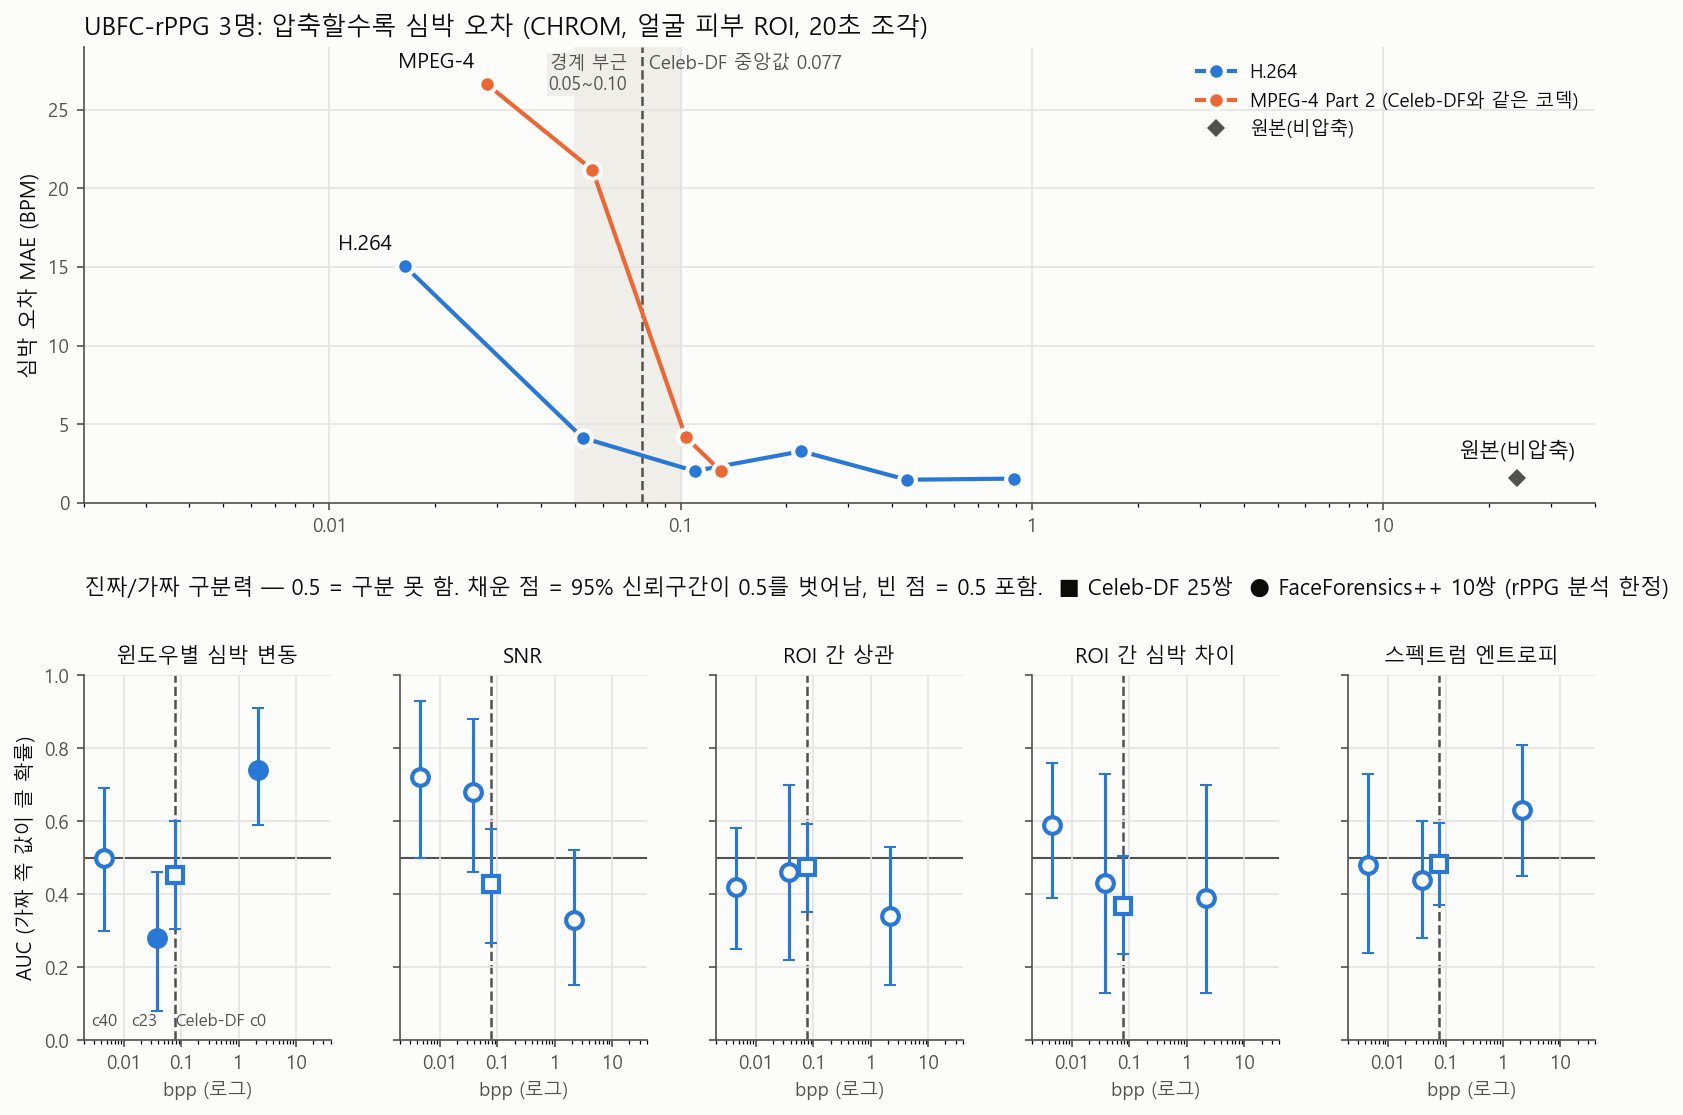
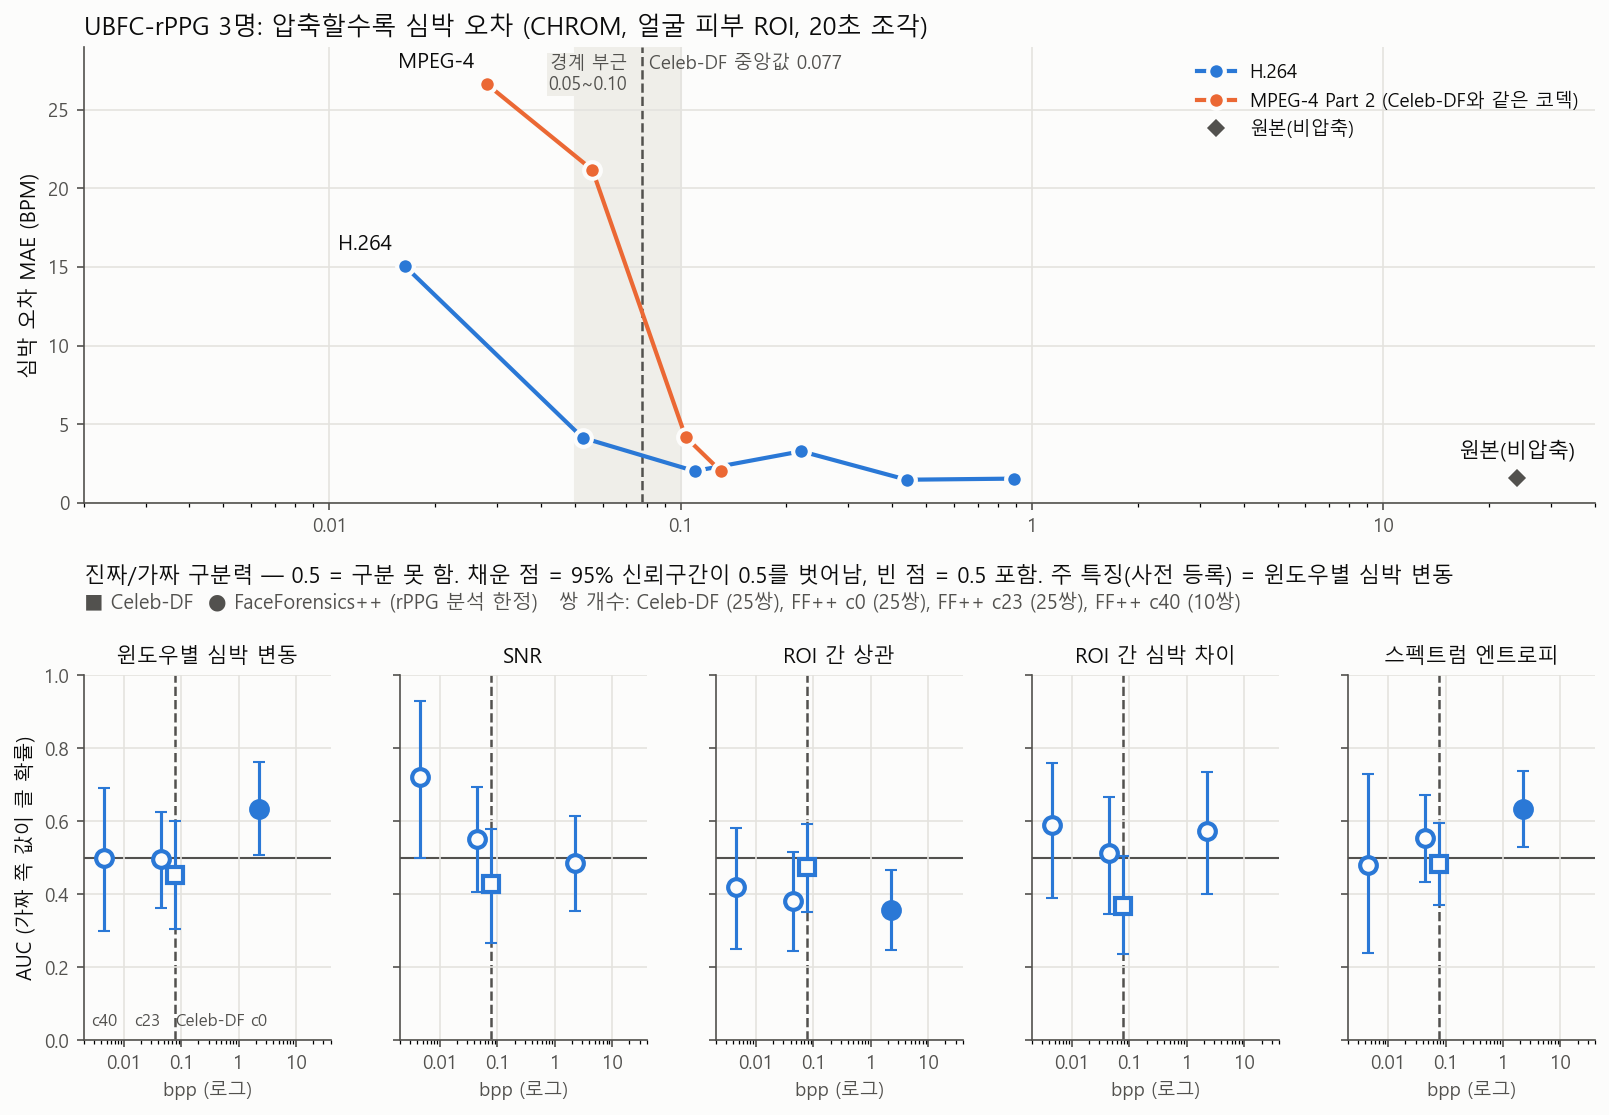
백엔드 4단계(일부): FF++ 25쌍 구분력 — 사전 등록 기준으로 c0 "구분됨"(잠정)
- 새 15쌍 짝 확인(c0·c23 이름·프레임 수·해상도 일치)
- 주 특징(윈도우별 심박 변동) c0: 25쌍 AUC 0.63 [0.51, 0.76] → 기준 넘음, 새 15쌍만 0.56 [0.42, 0.74]
- c23: 25쌍 0.50, 10쌍 때의 반대 방향은 우연으로 보임
- 근거가 약해 방향 판단표 "A(잠정)"으로 기록. ROI 간 상관은 다음 사전 등록 후보
- 그림 갱신(FF++ c0·c23 25쌍), 쌍 개수를 결과 파일에서 읽도록 수정

diff --git a/backend/scripts/plot_rppg_compression.py b/backend/scripts/plot_rppg_compression.py
@@ -3,7 +3,8 @@
 
   위: UBFC-rPPG 심박 오차(MAE) — rppg_bitrate_sweep.py 결과
   아래: 진짜/가짜 구분력(AUC + 95% 신뢰구간), 특징마다 작은 그림 — check_rppg_separability.py 결과
-        (Celeb-DF 25쌍, FaceForensics++ c0/c23/c40 각 10쌍. FF++는 rPPG 분석 한정)
+        (Celeb-DF, FaceForensics++ c0/c23/c40 — 쌍 개수는 결과 파일에서 읽는다. FF++는 rPPG 분석 한정)
+        주 특징(사전 등록): 윈도우별 심박 변동 — 그림에서 첫 칸
   세로 점선: Celeb-DF bpp 중앙값
 
   python -m scripts.plot_rppg_compression --sweep s.json --celebdf c.json --ffpp raw.json c23.json c40.json \\
@@ -49,9 +50,10 @@ def load(args) -> dict:
     data = {'ubfc': {'h264': curves['h264'], 'mpeg4': curves['mpeg4'],
                      'original': [float(np.mean([r['bpp'] for r in original])), float(np.mean([r['mae'] for r in original]))]},
             'separability': []}
-    sources = [('Celeb-DF (25쌍)', args.celebdf)] + [(f'FF++ {c} (10쌍)', p) for c, p in zip(('c0', 'c23', 'c40'), args.ffpp)]
-    for label, path in sources:
+    sources = [('Celeb-DF', args.celebdf)] + [(f'FF++ {c}', p) for c, p in zip(('c0', 'c23', 'c40'), args.ffpp)]
+    for name, path in sources:
         d = json.loads(Path(path).read_text(encoding='utf-8'))
+        label = f'{name} ({len(d["pairs"])}쌍)'
         bpp = float(np.median([p['bpp_real'] for p in d['pairs']]))
         feats = {f: d['summary'][f'chrom/{f}'] for f in FEATURES}
         data['separability'].append({'source': label, 'bpp': bpp, 'features': feats})
@@ -124,8 +126,10 @@ def plot(data: dict, out: Path, celebdf_bpp: float) -> None:
                 ax.annotate(short, (s['bpp'], 0.04), ha=align, color=MUTED, fontsize=8)
         else:
             ax.tick_params(labelleft=False)
-    fig.text(0.125, 0.455, '진짜/가짜 구분력 — 0.5 = 구분 못 함. 채운 점 = 95% 신뢰구간이 0.5를 벗어남, 빈 점 = 0.5 포함.'
-             '  ■ Celeb-DF 25쌍  ● FaceForensics++ 10쌍 (rPPG 분석 한정)', color=INK, fontsize=10.5)
+    fig.text(0.125, 0.465, '진짜/가짜 구분력 — 0.5 = 구분 못 함. 채운 점 = 95% 신뢰구간이 0.5를 벗어남, 빈 점 = 0.5 포함.'
+             ' 주 특징(사전 등록) = 윈도우별 심박 변동', color=INK, fontsize=10.5)
+    fig.text(0.125, 0.445, '■ Celeb-DF  ● FaceForensics++ (rPPG 분석 한정)   쌍 개수: '
+             + ', '.join(s['source'] for s in data['separability']), color=MUTED, fontsize=9.5)
     out.parent.mkdir(parents=True, exist_ok=True)
     fig.savefig(out, dpi=150, bbox_inches='tight', facecolor=SURFACE)
 
